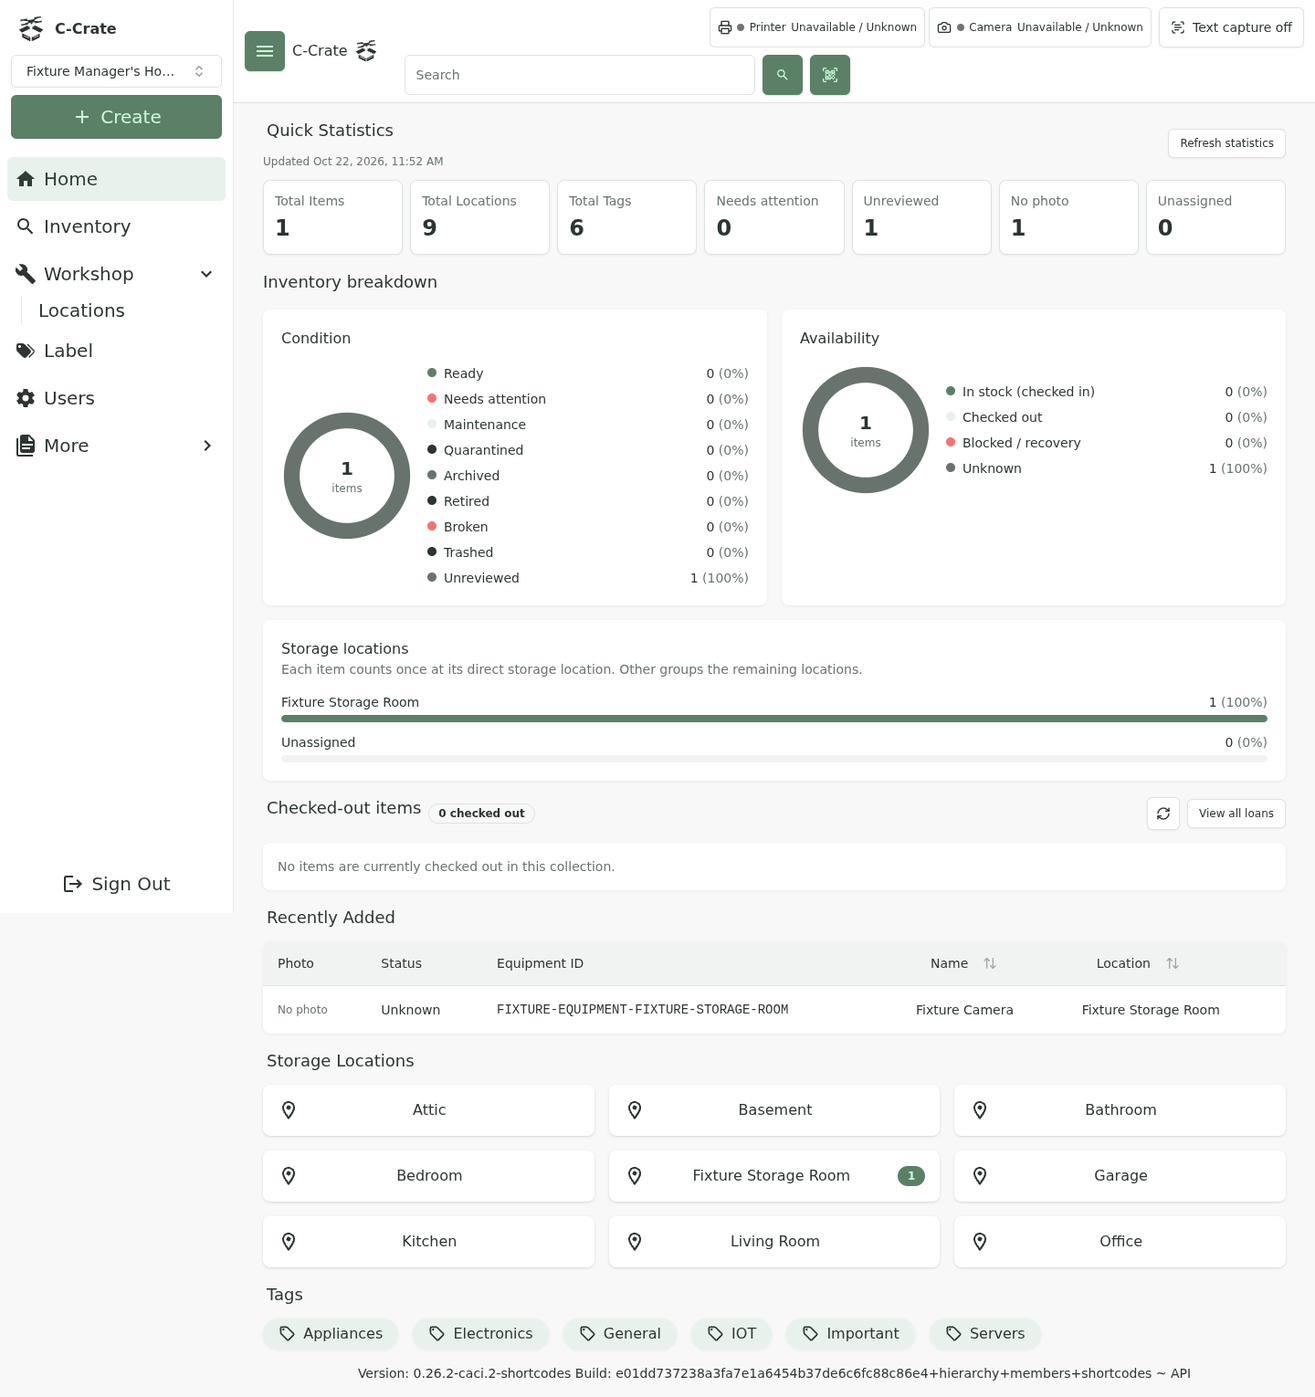
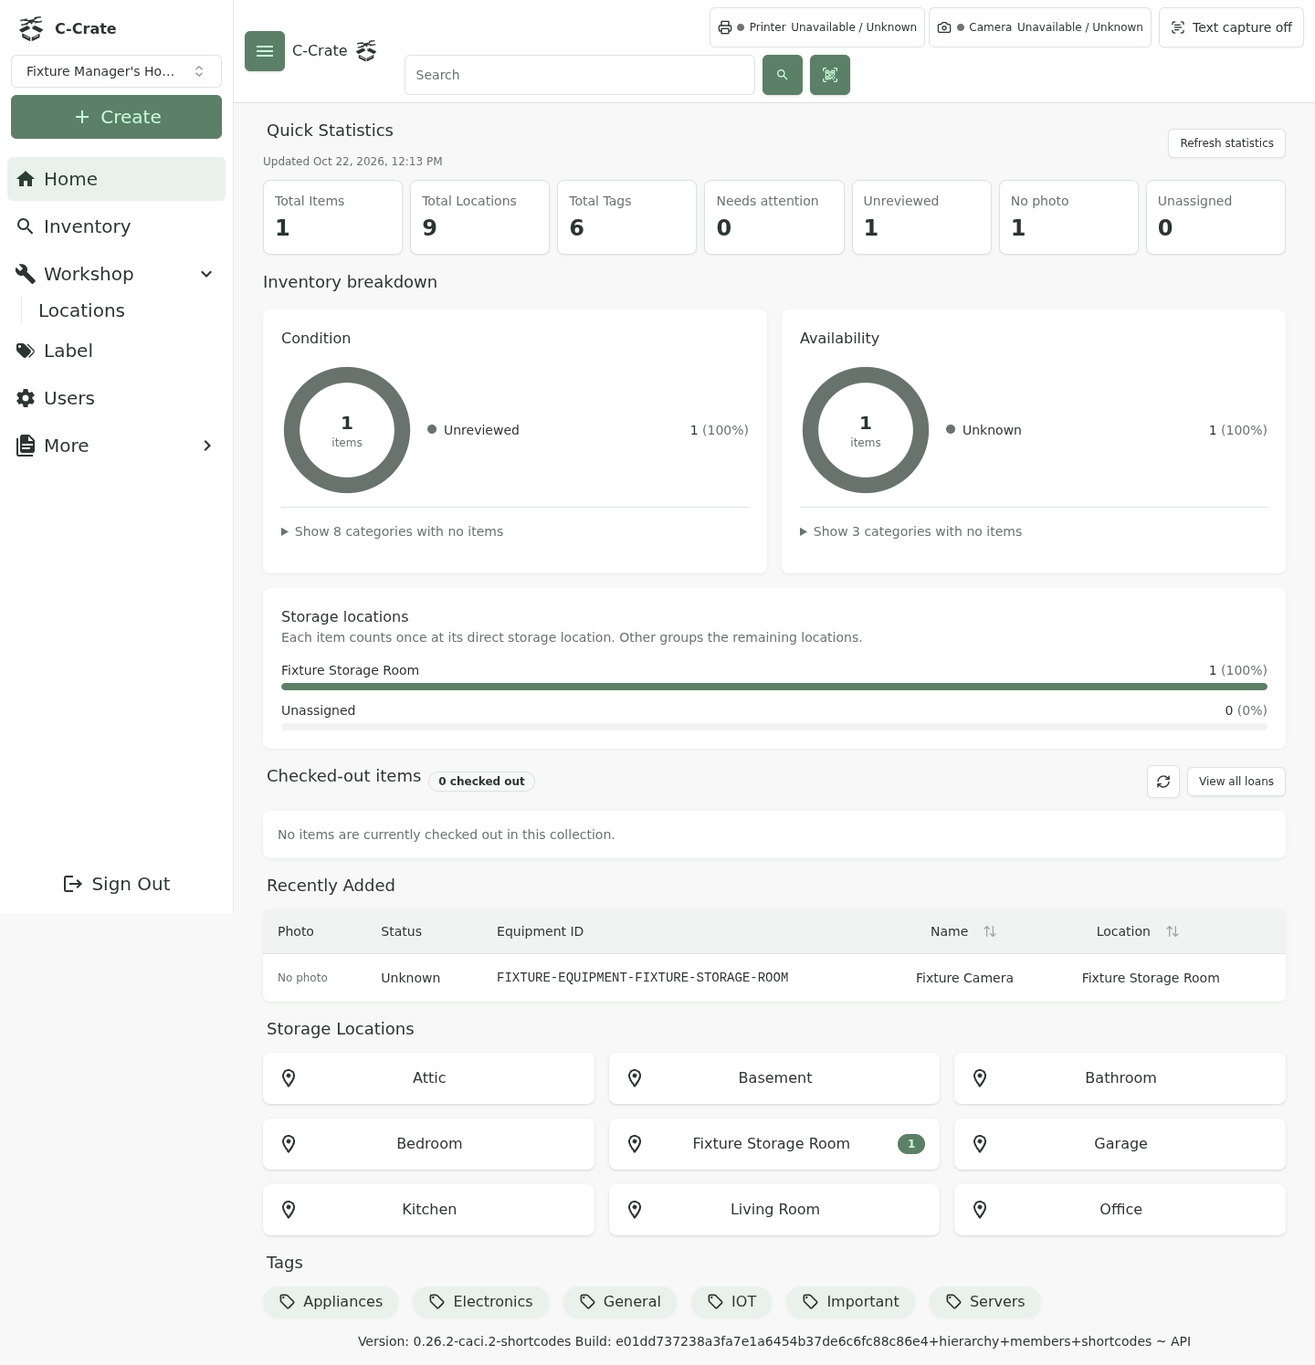
docs: complete redesign audit screenshot pass

diff --git a/docs/superpowers/plans/2026-10-21-ccrate-full-frontend-audit-and-redesign.md b/docs/superpowers/plans/2026-10-21-ccrate-full-frontend-audit-and-redesign.md
@@ -103,7 +103,7 @@ Manager (wide)                       Touchscreen transaction
 
 **Design review:** this direction is grounded in C-Crate's existing CSS tokens and the inspected screenshots. It avoids the generic SaaS card treatment by grouping only information that belongs together, and avoids a new bespoke palette by resolving colors at runtime from the active theme.
 
-The current interactive prototype already imports Homebox theme CSS, but its visual pass still declares a Nunito font stack, a fixed yellow focus color, a custom shadow token, and a manually copied theme list. Before using it to approve production layouts, reconcile those remnants with the source font, focus token, radius/surface treatment, and actual Homebox theme registry. Keep its theme picker labeled preview-only.
+The interactive prototype imports the Homebox theme CSS and uses the system sans-serif stack, Homebox focus and radius tokens, and a preview-only theme picker populated from the Homebox theme registry. The picker affects only the prototype and does not change saved appearance settings.
 
 Before implementation:
 
@@ -126,19 +126,19 @@ Reorder and refine the existing plans after the audit. Likely order, subject to 
 
 For each slice, preserve Homebox authority and recovery rules, and review screenshots in the shared themes and intended viewport sizes. Keep slices independent and do not batch unrelated features into one large visual rewrite. Automated test additions or execution are deferred unless the user asks for tests or verification; do not run them as part of this work by default.
 
-**Work started and progress:** the audit screenshots and prioritized findings are recorded in `docs/reviews/2026-10-21-audit/`. The stable Homebox token asset/route, theme-aligned interactive mockup, and kiosk token styling are implemented in commits `cfb6113`, `6084472`, `2a980cd`, `a7a8cbe`, and `34f41be`. The kiosk now has explicit cancel/back and review states, retained receipts until cleanup acknowledgment, and same-member status recovery after expiry; the latter received multiple source reviews and was hardened in `c7537ca`, `964f1f5`, `13e2ee4`, `cef74e9`, `88720e6`, `d59089a`, `3b6eb6e`, `332e353`, `59edaeb`, and `fbdca28`.
+**Work completed in source:** the audit screenshots and prioritized findings are recorded in `docs/reviews/2026-10-21-audit/`. The stable Homebox token asset/route, theme-aligned interactive mockup, and kiosk token styling are implemented in commits `cfb6113`, `6084472`, `2a980cd`, `a7a8cbe`, and `34f41be`. The kiosk now has explicit cancel/back and review states, retained receipts until cleanup acknowledgment, and same-member status recovery after expiry; the latter received multiple source reviews and was hardened in `c7537ca`, `964f1f5`, `13e2ee4`, `cef74e9`, `88720e6`, `d59089a`, `3b6eb6e`, `332e353`, `59edaeb`, and `fbdca28`.
 
-The current `main` implementation now also includes compact item/location identity and activity layouts, a responsive inventory list/preview, a grouped Create Item form and clearer completion actions, timestamped note history with explicit unknown attribution, and query-based manager/kiosk search. Relevant commits: `179ef08`, `ab80393`, `ea7ff1e`, `f053d67`, `575d4f4`, `a2d8f03`, `6e75d43`, `104216c`, `4937665`, `7db033e`, `894698d`, `9759a77`, `a91fb9c`, and `2905c44`. Manager search now keeps ordinary Homebox queries narrow and offers an explicit **Include ID and custom field matches** action. Selecting it scans the currently filtered collection so partial assigned IDs and custom-field-only matches can appear; that broader search may take longer. Exact and partial full-ID search is preserved in this mode. Kiosk search supports names and complete UUIDs, not partial UUIDs. The wider redesign remains active: the fresh manager screenshot pass is recorded below; Create Item's expanded/photo/success states and a few device- and transaction-dependent states still need review.
+The current `main` implementation also includes compact item/location identity and activity layouts, a responsive inventory list/preview, a grouped Create Item form and clearer completion actions, timestamped note history with explicit unknown attribution, and query-based manager/kiosk search. Relevant commits: `179ef08`, `ab80393`, `ea7ff1e`, `f053d67`, `575d4f4`, `a2d8f03`, `6e75d43`, `104216c`, `4937665`, `7db033e`, `894698d`, `9759a77`, `a91fb9c`, and `2905c44`. Manager search now keeps ordinary Homebox queries narrow and offers an explicit **Include ID and custom field matches** action. Selecting it scans the currently filtered collection so partial assigned IDs and custom-field-only matches can appear; that broader search may take longer. Exact and partial full-ID search is preserved in this mode. Kiosk search supports names and complete UUIDs, not partial UUIDs.
 
 **Follow-up source review:** the existing authenticated fixture screenshots under `work/frontend-review/` are dated 2026-10-19 and show an older frontend baseline. The label-maker capture has a large empty preview panel and a Letter-sheet panel before any preview exists. Commit `21a6210` hides both panels until preview content exists and shows a short inline instruction beside the preview action, reducing dead space without changing print actions. These old captures are not accepted as evidence of the current rendering; refresh the screen captures after a current local preview is available.
 
-**Current screenshot review:** `docs/reviews/2026-10-22-frontend-redesign/report.md` records idle-kiosk captures at desktop and mobile sizes and in Homebox's Night theme. `docs/reviews/2026-10-22-manager-audit/report.md` now records a fresh authenticated pass across the dashboard, inventory, create-item dialog, item/location details, members, labels, appearance, and workshop routes. `docs/reviews/2026-10-22-kiosk-audit/` records isolated checkout/return review captures and scanner Enter behavior. The pass also fixed missing inventory component registration, improved inventory default selection and labels, hid empty item metadata by default, clarified location tree actions and label-maker empty/search states, added item preview cards, persisted a manager-selected kiosk theme per collection, and added Enter submission for Netum return scans. The disposable manager browser blocked mutation endpoints except fixture login and theme preference; checkout-cart is blank under that policy and remains unverified there. Physical scanner, printer, camera, and transaction confirmation still require device/operational validation. The generated frontend build completes; the upstream typecheck still reports 38 existing diagnostics and no new ones.
+**Current screenshot review:** `docs/reviews/2026-10-22-frontend-redesign/report.md` records idle-kiosk captures at desktop and mobile sizes and in Homebox's Night theme. `docs/reviews/2026-10-22-manager-audit/report.md` records dashboard, inventory, Create Item initial/expanded/photo/success, location, member, and other route captures from an authenticated disposable fixture. Item detail and workshop-loans rendered blank in that fixture and are named capture blockers; the checkout cart does not include live history data. `docs/reviews/2026-10-22-kiosk-audit/` records isolated checkout/return review captures and synthetic scanner Enter behavior. The pass also fixed missing inventory component registration, improved inventory default selection and labels, hid empty item metadata by default, clarified location tree actions and label-maker empty/search states, added item preview cards, persisted a manager-selected kiosk theme per collection, and added Enter submission for Netum return scans. Physical scanner, printer, camera, receipt, and uncertain-recovery captures still require device/isolated-transaction validation. The recurring deployed unavailable error needs operational logs to identify its cause. The generated frontend build completes; the upstream typecheck still reports 38 existing diagnostics and no new ones.
 
 ## Acceptance Criteria
 
-- Every planned C-Crate screen has an audit entry or a clearly named capture blocker.
+- Every planned C-Crate screen has an audit entry or a clearly named capture blocker; captures that render blank are not treated as visual evidence.
 - Findings are tied to screenshots and ranked by user impact.
 - The final approved prototype and both implementations use the Homebox theme system instead of a parallel fixed palette.
-- A user can find the common action on each screen, see useful item/location identity, and understand loading, empty, error, cancel, success, and uncertain states.
+- A user can find the common action on each screen, see useful item/location identity, and understand loading, empty, error, cancel, success, and uncertain states. Source includes these states; the remaining kiosk failure/receipt/uncertain states are named screenshot blockers.
 - Manager and kiosk interfaces look related while preserving their separate task layouts and target sizes.
 - All previously reported safety and authorization behavior remains intact.

diff --git a/TODO.md b/TODO.md
@@ -4,22 +4,22 @@
 
 - [x] Initial screenshot audit of the signed-out manager entry and kiosk home, badge gate, checkout, and return flow. Screenshots and findings are in `docs/reviews/2026-10-21-audit/report.md`. Kiosk interaction used synthetic fixture data with confirmation writes blocked.
 - [x] Capture authenticated manager item/location/create screens and dashboard, labels, members, workshop tools, and appearance against the current generated source. Screenshots and fixture limits are in `docs/reviews/2026-10-22-manager-audit/`.
-- [ ] Capture Create Item photo-preview and confirmed-success states in a safe disposable fixture; current captures show empty fields and no uploaded photo.
-- [ ] Re-capture the manager dashboard, member, and borrowing-history screens after the final pause-pass source changes are built; inspect the after state before release.
-- [x] Reconcile the interactive mockup and per-screen plans with the approved Homebox theme direction. The broader authenticated-manager screenshot audit is still pending before calling the full redesign complete.
+- [x] Capture Create Item photo-preview and confirmed-success states in a safe disposable fixture; confirmation was written only to the temporary fixture database.
+- [x] Re-capture and inspect the manager dashboard and member screens after the final pause-pass source changes. Item detail and workshop-loan history routes returned blank content in the fixture and remain visual capture blockers.
+- [x] Reconcile the interactive mockup and per-screen plans with the approved Homebox theme direction. The per-screen audit now lists screens that could not be rendered in the isolated fixture.
 
 ## Touchscreen check-in and checkout
 
-- [ ] High priority: investigate recurring “C-Crate unavailable; no confirmation received”. The companion returns this generic HTTP 503 for caught OSError exceptions in POST handlers and does not log the underlying exception there. Identify the affected action and root cause, add safe diagnostics without badge codes or credentials, and provide clear recovery guidance. Do not automatically resubmit uncertain transactions. Reported 2026-10-21; cause not yet established.
-- [ ] Fix NETUM badge scanning. Investigate why scans are missed; make the screen ready to receive a badge scan when an action is selected and show clear scan feedback. Confirm with the physical scanner.
+- [ ] High priority operational follow-up: investigate recurring “C-Crate unavailable; no confirmation received” on the deployed device. The companion returns this generic HTTP 503 for caught OSError exceptions in POST handlers and does not log the underlying exception there. The isolated UI fixture cannot establish the deployed root cause. Add safe diagnostics without badge codes or credentials and provide clear recovery guidance. Do not automatically resubmit uncertain transactions. Reported 2026-10-21; cause not yet established.
+- [ ] Hardware acceptance: confirm NETUM badge scanning on the physical scanner. Synthetic Enter submission works in the browser fixture; hardware behavior remains unverified.
 - [x] Add a visible Cancel / Back option to both checkout and return. Abandoning an unfinished transaction clears its badge session and draft; uncertain submissions keep safe status recovery.
 - [x] Make inventory search responsive with debounced bounded native queries, clear loading/no-result/error states, stale-response rejection, and full-ID lookup. Manager search offers opt-in broad ID/custom-field matching while ordinary searches remain narrow. Broad search loads the full selected-filter collection and may take longer; partial kiosk UUID search is unavailable. Latency was not measured.
-- [x] Redesign member checkout and return around clearer scan readiness, item review, cancel/back navigation, and safe recovery for uncertain confirmations. The screenshots use an isolated fixture; physical Netum scanning still needs hands-on confirmation.
+- [x] Redesign member checkout and return around clearer scan readiness, item review, cancel/back navigation, and safe recovery for uncertain confirmations. Review captures use an isolated fixture; success receipts and uncertain-recovery states remain screenshot blockers pending a controlled transaction fixture.
 - [x] Rework the kiosk idle screen with the shared C-Crate mark, a visible “choose a task, then scan” prompt, larger Homebox-themed actions, and a responsive one-column touch layout. Fresh before/after screenshots are in `docs/reviews/2026-10-22-frontend-redesign/report.md`.
 
 ## Item and location screens
 
-- [x] Redesign item and location browsing with a desktop results/preview split, mobile result-first detail, compact identity/contents, and reduced redundant controls. The authenticated-manager screenshot review is still pending.
+- [x] Redesign item and location browsing with a desktop results/preview split, mobile result-first detail, compact identity/contents, and reduced redundant controls. Location browsing/details are captured; item detail rendered blank in the isolated fixture, so its visual review is still pending.
 
 ## Create Item screen
 
@@ -43,4 +43,4 @@
 - Keep content left aligned and compact; use real item photos as the visual anchor. On item lists, show useful matches with thumbnails and key facts. Keep manager search responsive from desktop split view to narrow touchscreens.
 - Review the manager and kiosk screens side by side in the C-Crate theme and at least one light and one dark variant. Keep their navigation and density appropriate to their jobs while aligning their visual language.
 
-Recorded from user feedback on 2026-10-21. The authenticated screenshot pass and frontend build have been completed for the current checkpoint; automated tests were not run. Remaining work: finish the after-state screenshot review, capture Create Item photo/success states, validate with physical scanner/printer/camera and transaction recovery, investigate the recurring unavailable error, and compare manager/kiosk themes side by side at desktop and touch viewports.
+Recorded from user feedback on 2026-10-21. The manager after-state screenshot review and Create Item photo/success captures are complete in a disposable fixture. The frontend build completes; automated tests were not run. Remaining work is limited to the named screenshot blockers (item detail, workshop loan history, kiosk scan failures/receipts/uncertain recovery), a side-by-side theme capture at desktop and touch sizes, physical scanner/printer/camera acceptance, and investigation of the deployed unavailable error.

diff --git a/docs/reviews/2026-10-22-manager-audit/report.md b/docs/reviews/2026-10-22-manager-audit/report.md
@@ -1,25 +1,25 @@
 # Authenticated C-Crate manager UI review
 
-Captured 2026-10-22 at 1440 × 1000 from the current generated frontend against a disposable Homebox database. The fixture had one manager, one tool, one location, and one item. Browser writes were restricted to login, the fixture's theme preference, and user appearance settings. Checkout and return confirmations were not submitted; physical devices were not connected.
+Captured 2026-10-22 at 1440 × 1000 from the current generated frontend against a disposable Homebox database. The fixture had one manager, one tool, one location, and one item. The Create Item photo and success states used a synthetic image and wrote only to this disposable database. The manager's selected touchscreen theme was saved only to the fixture. No checkout or return was submitted; physical devices were not connected.
 
 ## Captures
 
 | Screen | Evidence |
 |---|---|
 | Home dashboard | [dashboard.png](dashboard.png) |
-| Inventory and create item | [items.png](items.png), [create-item.png](create-item.png), [create-item-expanded.png](create-item-expanded.png) |
-| Item details | [item-detail.png](item-detail.png) |
+| Inventory and create item | [items.png](items.png), [create-item.png](create-item.png), [create-item-expanded.png](create-item-expanded.png), [create-item-photo-preview.png](create-item-photo-preview.png), [create-item-success.png](create-item-success.png) |
+| Item details | [item-detail.png](item-detail.png) — capture blocker: route rendered a blank page in the isolated fixture. |
 | Locations and location details | [locations.png](locations.png), [location-detail.png](location-detail.png) |
 | Members and label maker | [members.png](members.png), [labels.png](labels.png) |
 | Appearance and theme picker | [appearance.png](appearance.png) |
-| Workshop map, loans, and equipment | [workshop-map.png](workshop-map.png), [workshop-loans.png](workshop-loans.png), [workshop-equipment.png](workshop-equipment.png) |
+| Workshop map, loans, and equipment | [workshop-map.png](workshop-map.png), [workshop-loans.png](workshop-loans.png) — loan history route rendered blank content in the fixture; [workshop-equipment.png](workshop-equipment.png) |
 | Checkout cart, imports, recovery, system, equipment IDs | [checkout-cart.png](checkout-cart.png), [imports.png](imports.png), [recovery.png](recovery.png), [system.png](system.png), [equipment-ids.png](equipment-ids.png) |
 
-The appearance capture confirms the manager can save the selected Homebox theme for the touchscreen. The kiosk transaction screens and scanner flow are in [the kiosk audit folder](../2026-10-22-kiosk-audit/).
+The appearance capture confirms the manager can save the selected Homebox theme for the touchscreen. Updated dashboard and member captures show the compact zero-count disclosure and quieter empty-loan state. The photo-preview capture shows the synthetic photo selected in Create Item; the success capture confirms the item was created and the photo upload reported success in the temporary fixture. The kiosk transaction screens and scanner flow are in [the kiosk audit folder](../2026-10-22-kiosk-audit/).
 
 ## Changes reflected in the captures
 
-- The dashboard screenshot showed the condition and availability panels dominated by zero-count rows. The dashboard now keeps populated categories in the main legend and moves zero-count categories into a keyboard-operable disclosure. Counts and chart calculations are unchanged; this is a source change after the screenshot below, so that capture does not yet show the updated layout.
+- The dashboard keeps populated categories in the main legend and moves zero-count categories into a keyboard-operable disclosure. The current dashboard capture shows the updated layout; counts and chart calculations are unchanged.
 - Inventory now selects a useful preview by default, shows the selected group, and uses clearer language for unloaded notes. The missing custom component imports that hid inventory content were fixed.
 - Item details hide empty metadata by default and place packaging, custom fields, and related items behind a disclosure.
 - Location tree controls now name their actions (“Expand all”, “Collapse all”, and “Show/Hide items”).
@@ -30,6 +30,4 @@ The appearance capture confirms the manager can save the selected Homebox theme 
 
 ## Limits visible in this pass
 
-The disposable fixture has no hardware, so printer and camera indicators are unavailable. Dashboard statistics and member loan details may still be loading when captured. The checkout cart route is blank in this fixture because its backing history/group write was intentionally blocked by the browser route policy; this capture is not evidence of production behavior. The fixture does not cover physical scanner hardware or transaction confirmation.
-
-The dashboard capture predates the compact zero-count category disclosure. It remains evidence for the original clutter finding, not for the updated rendering; regenerate `dashboard.png` from a current authenticated fixture before treating the new dashboard layout as visually verified.
+The disposable fixture has no hardware, so printer and camera indicators are unavailable. The item-detail route and workshop-loans route rendered blank content and are explicitly not considered visual evidence; the checkout-cart capture also lacks its live history data. The fixture does not cover physical scanner hardware or a real transaction. Kiosk failure, receipt, and uncertain-recovery states are called out as blockers in the kiosk report.

diff --git a/docs/reviews/2026-10-22-kiosk-audit/report.md b/docs/reviews/2026-10-22-kiosk-audit/report.md
@@ -11,4 +11,11 @@ Captured 2026-10-22 from the current kiosk UI in an isolated fixture. The fixtur
 | Return item scan | [05-return-scan.png](05-return-scan.png) | Return scan state; Enter key on the Netum scanner now submits the scan for verification. |
 | Return review | [05-return-review.png](05-return-review.png) | Item preview, return condition/note context, and review actions. |
 
-The Enter behavior was verified synthetically by entering a fixture barcode and observing the “Physical scan verified” review state. This did not use physical hardware and did not invoke checkout or return confirmation. A receipt/success state and an uncertain-result recovery state were not captured in this pass; their existing transaction/recovery behavior remains subject to an operational review before release.
+The Enter behavior was verified synthetically by entering a fixture barcode and observing the “Physical scan verified” review state. This did not use physical hardware and did not invoke checkout or return confirmation.
+
+## Capture blockers and device acceptance
+
+- Badge failure and item-scan failure states are not captured yet. They require controlled synthetic `/scan` error responses in the isolated browser fixture.
+- Checkout and return receipts, plus uncertain-result recovery, are not captured. Confirm endpoints must remain synthetic and isolated; the existing review states do not prove transaction completion.
+- NETUM badge scanning still needs confirmation with the physical scanner. Printer and camera status also need a real-device check.
+- The recurring deployed “C-Crate unavailable; no confirmation received” error is not explained by these UI captures. See the operational follow-up in `TODO.md`; no uncertain transaction should be automatically resubmitted.
